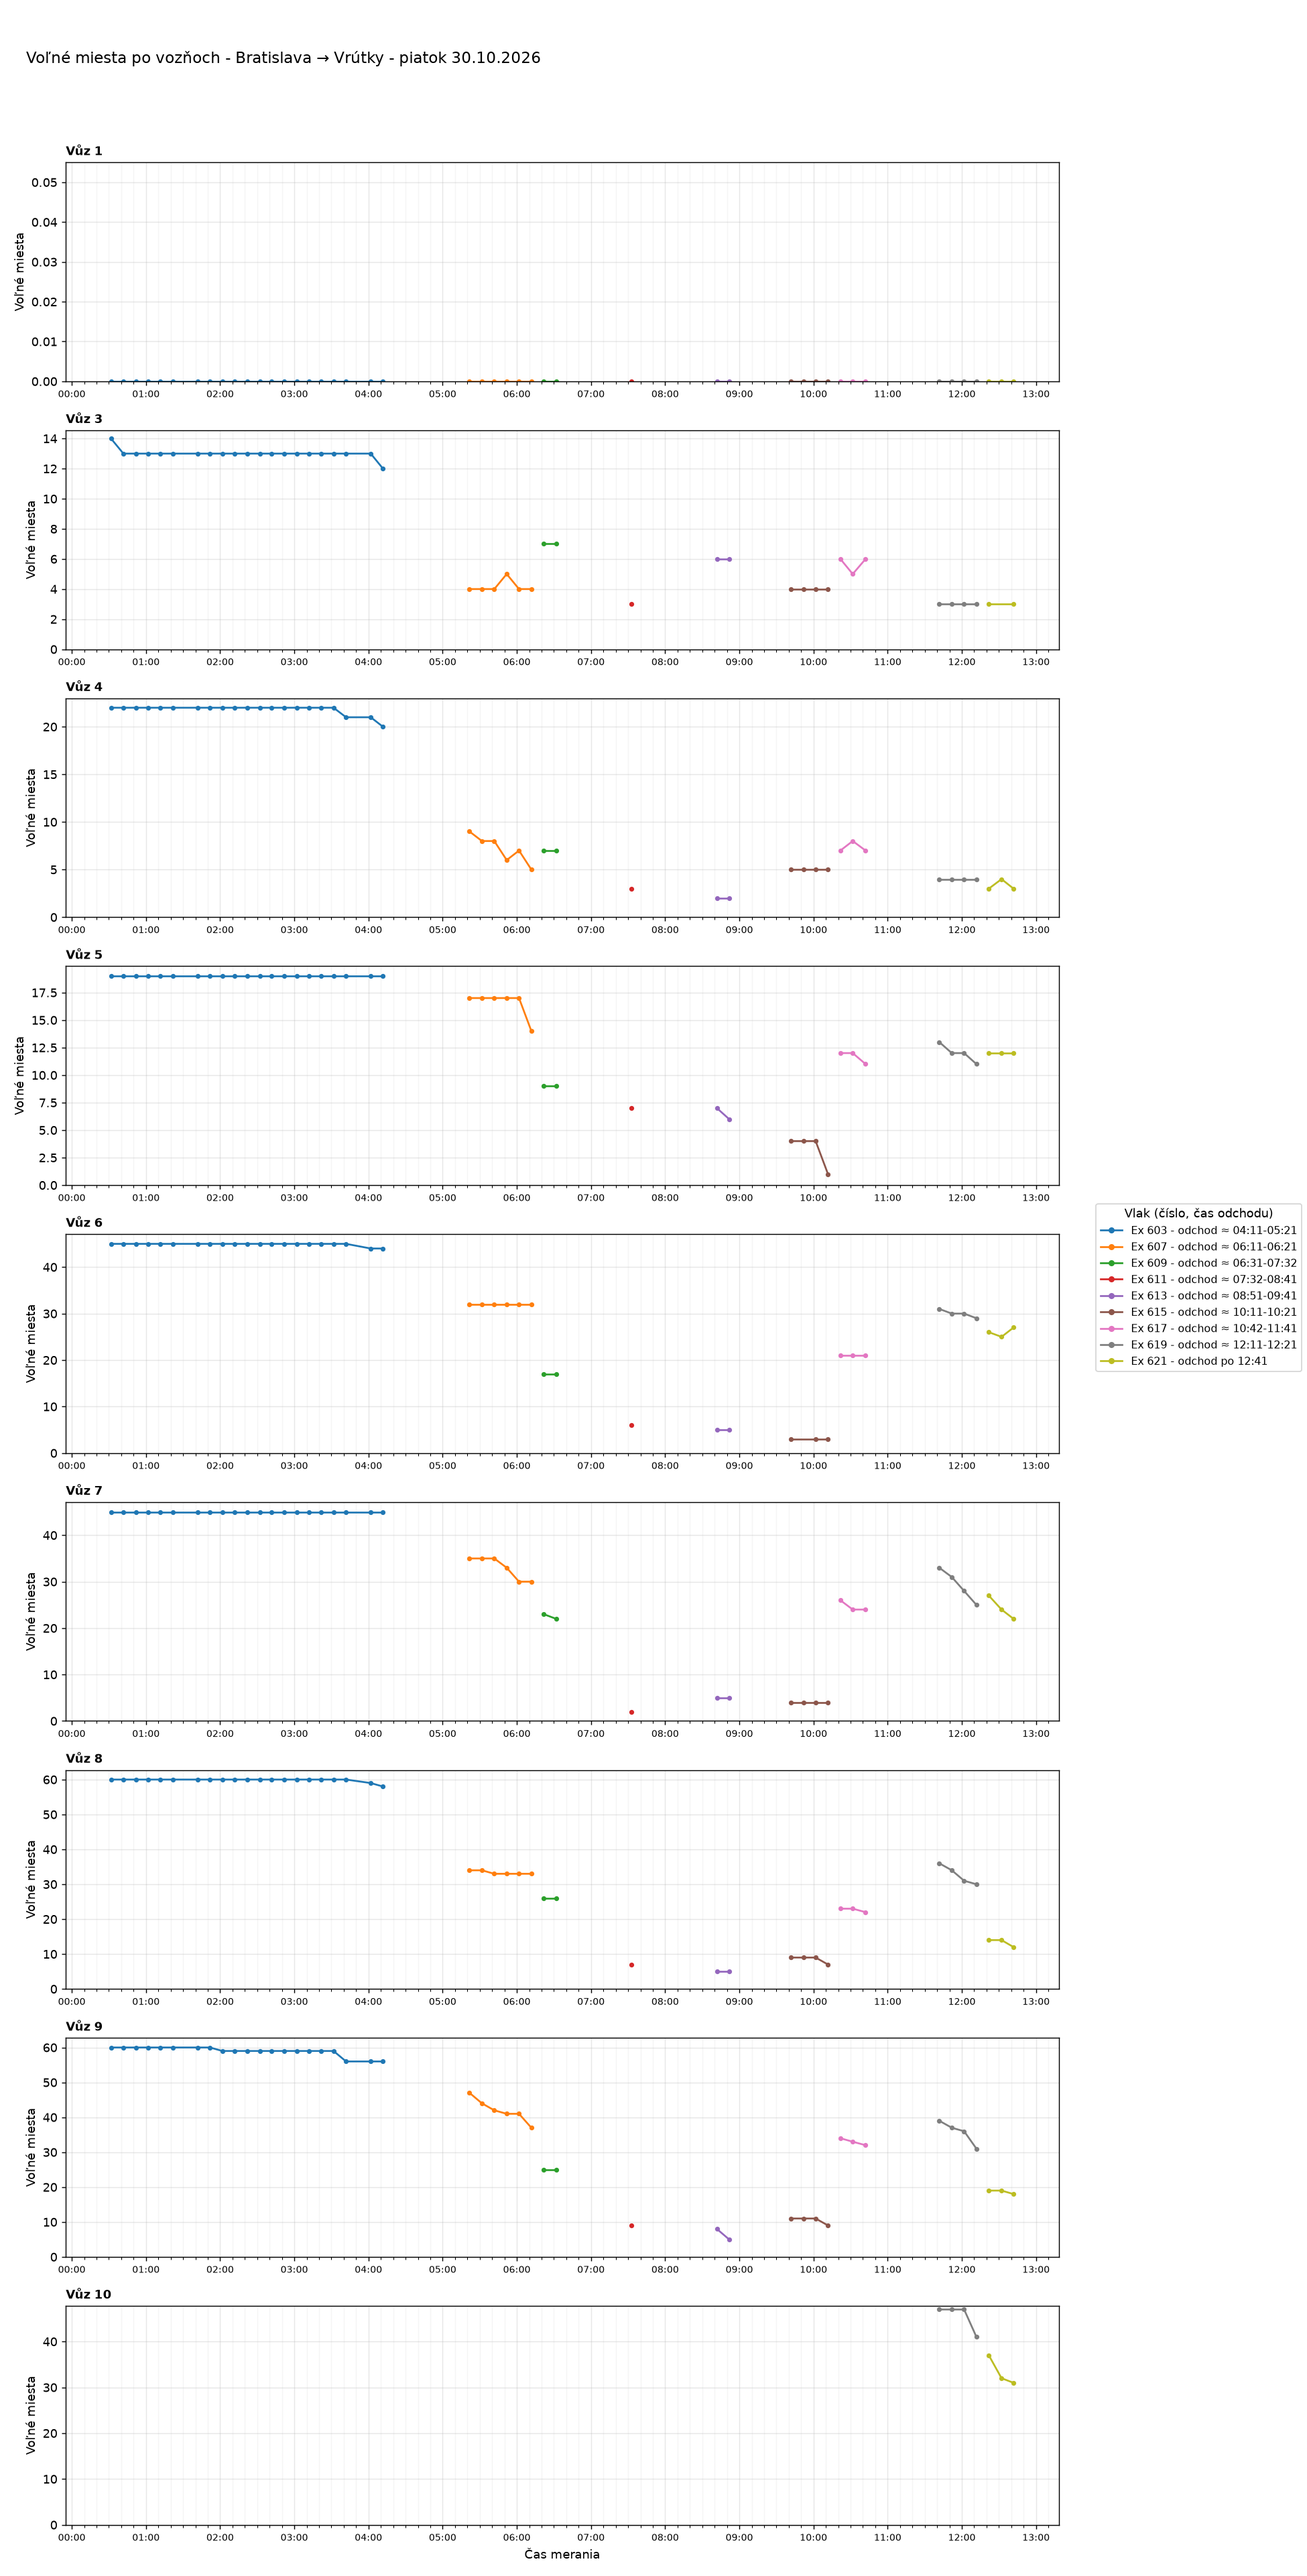
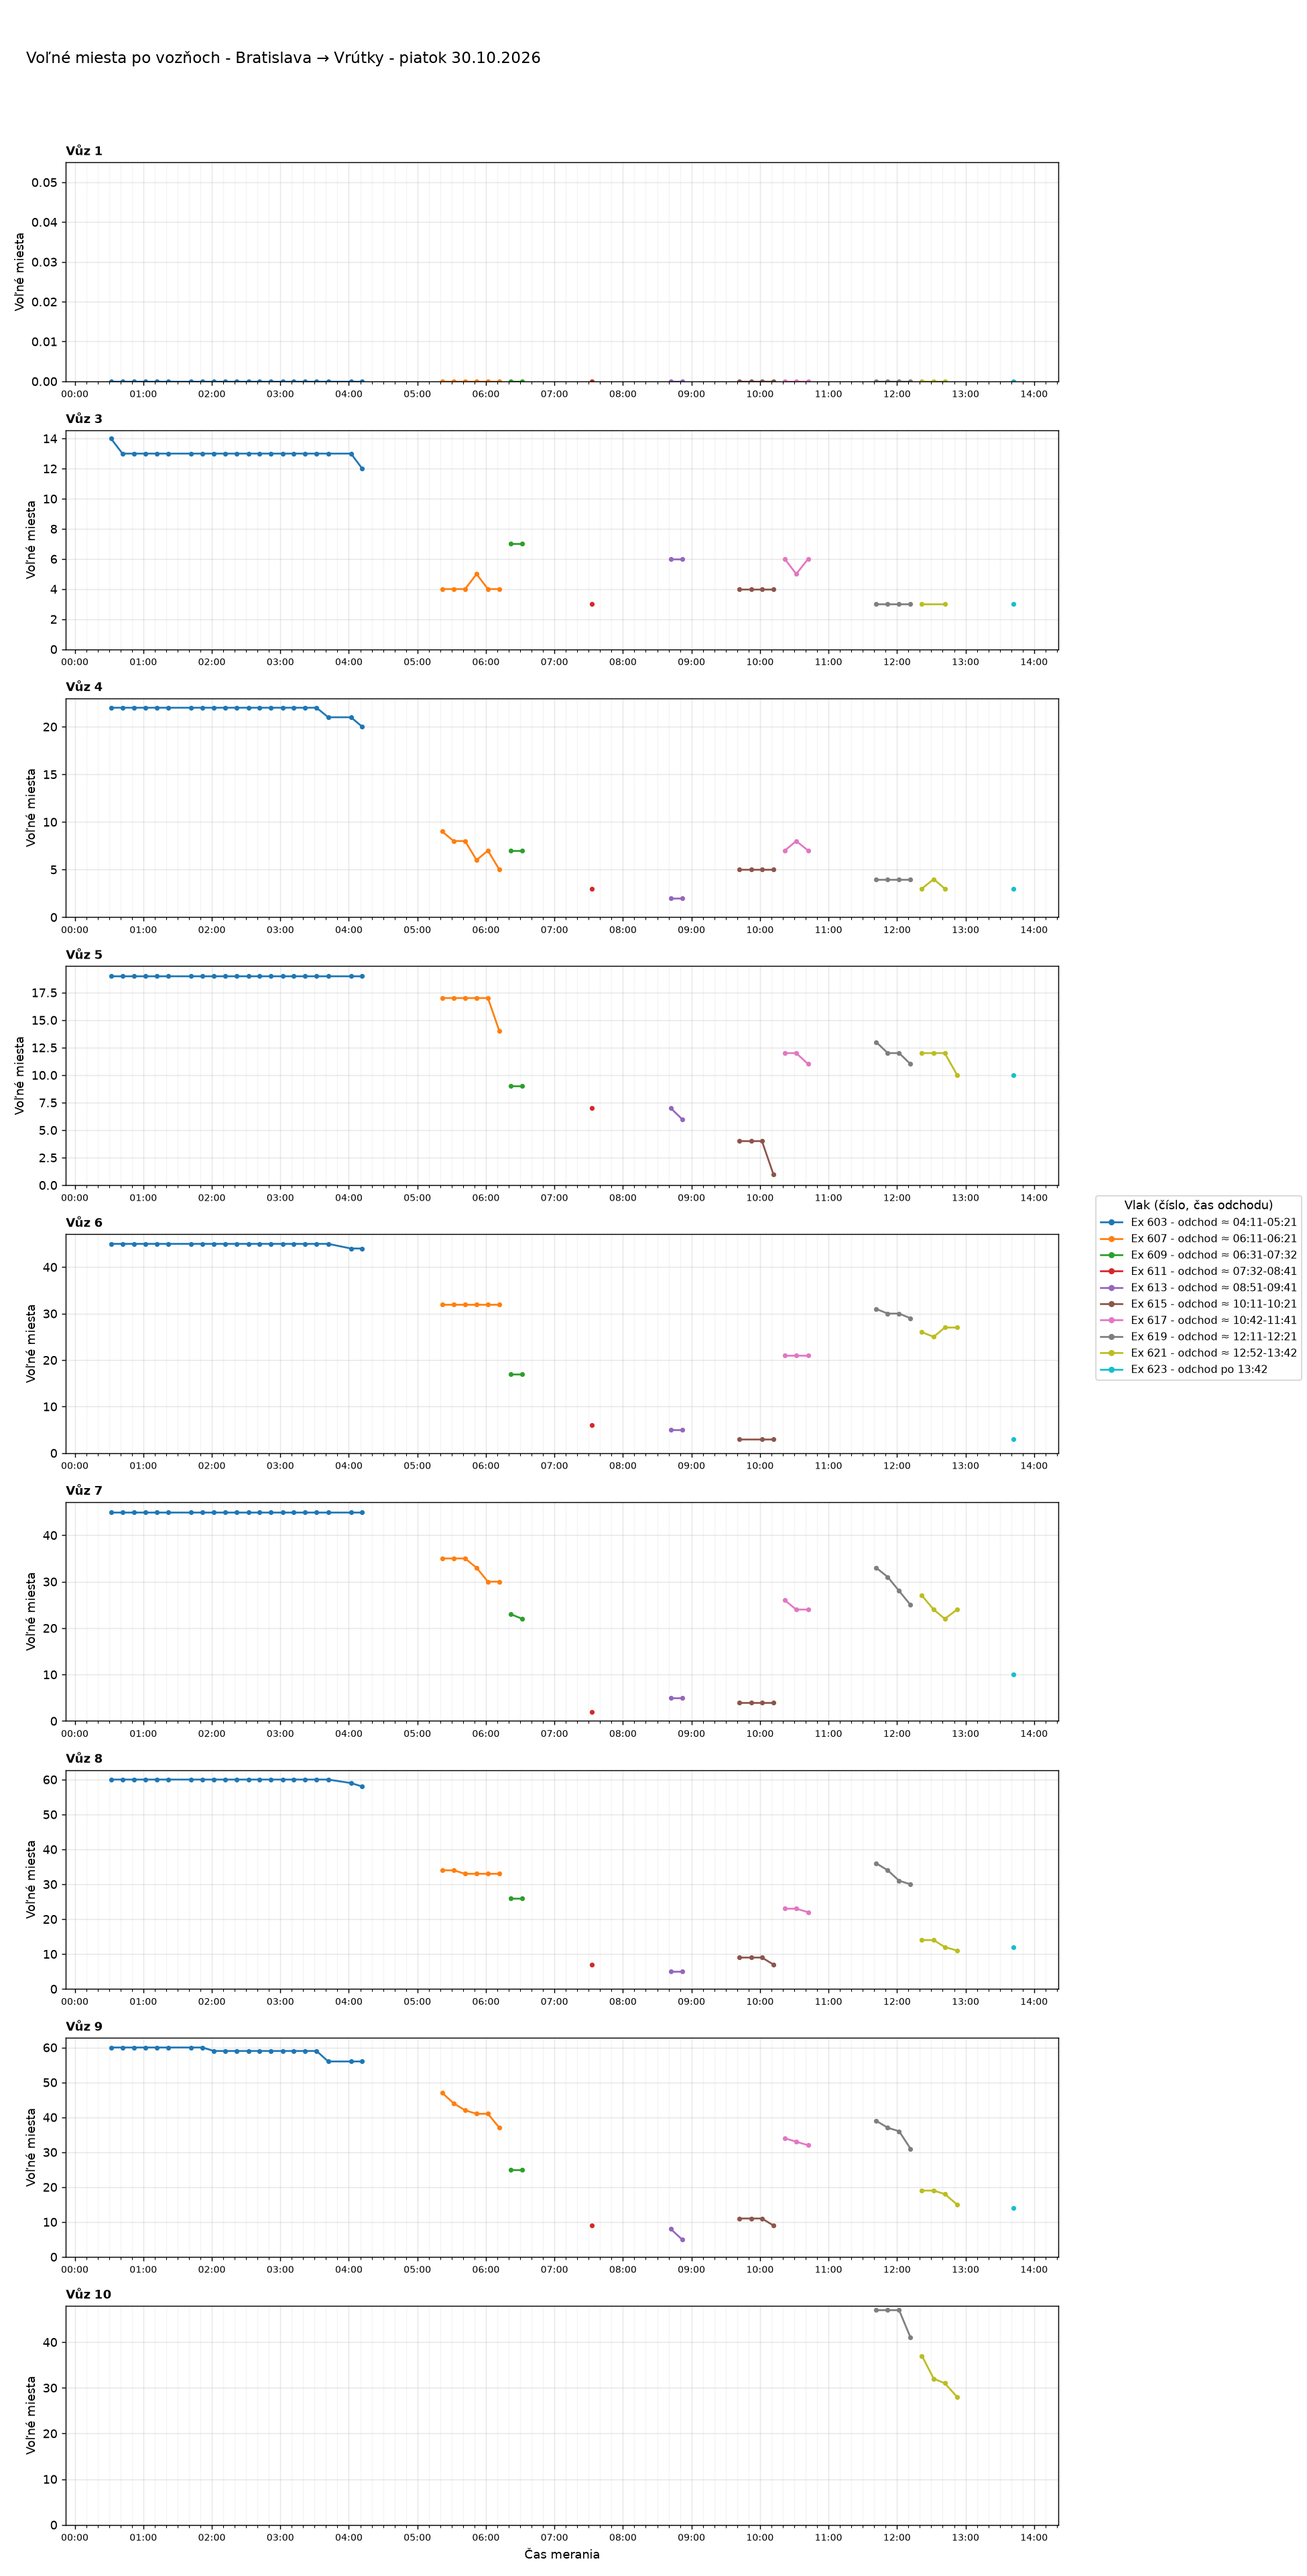
Aktualizácia grafov 2026-10-30 13:52

Changed region(s): [[0.8308, 0.4684, 1.0, 0.5308], [0.2462, 0.2498, 0.2769, 0.281]]

diff --git a/index.html b/index.html
@@ -37,7 +37,7 @@ details.trasa>summary{cursor:pointer;font-weight:600;font-size:1.1rem;padding:8p
 <body>
 <main>
 <h1>Voľné miesta vo vlakoch</h1>
-<p class="muted">Posledné meranie: 30.10.2026 12:44 ·
+<p class="muted">Posledné meranie: 30.10.2026 13:42 ·
 <a href="data/obsadenost_data.csv">stiahnuť dáta (CSV)</a></p>
 <nav class="nav"><a href="#suhrn">Súhrn</a><a href="#statistiky">Štatistiky</a><a href="#historia">História grafov</a></nav>
 
@@ -46,7 +46,7 @@ details.trasa>summary{cursor:pointer;font-weight:600;font-size:1.1rem;padding:8p
 <div class="tablewrap"><table>
 <thead><tr><th>Deň</th><th>Trasa</th><th>Meraní</th><th>Vlakov</th><th>Čas meraní</th></tr></thead>
 <tbody>
-<tr><td><a href="#dBA-VR-2026-10-30">piatok 30.10.2026</a></td><td>Bratislava → Vrútky</td><td>46</td><td>9</td><td>00:31-12:41</td></tr>
+<tr><td><a href="#dBA-VR-2026-10-30">piatok 30.10.2026</a></td><td>Bratislava → Vrútky</td><td>48</td><td>10</td><td>00:31-13:42</td></tr>
 <tr><td><a href="#dVR-BA-2026-10-30">piatok 30.10.2026</a></td><td>Vrútky → Bratislava</td><td>36</td><td>8</td><td>02:52-12:42</td></tr>
 <tr><td><a href="#dBA-KE-2026-10-30">piatok 30.10.2026</a></td><td>Bratislava → Košice</td><td>41</td><td>9</td><td>00:22-12:43</td></tr>
 <tr><td><a href="#dKE-BA-2026-10-30">piatok 30.10.2026</a></td><td>Košice → Bratislava</td><td>36</td><td>8</td><td>00:23-12:44</td></tr>
